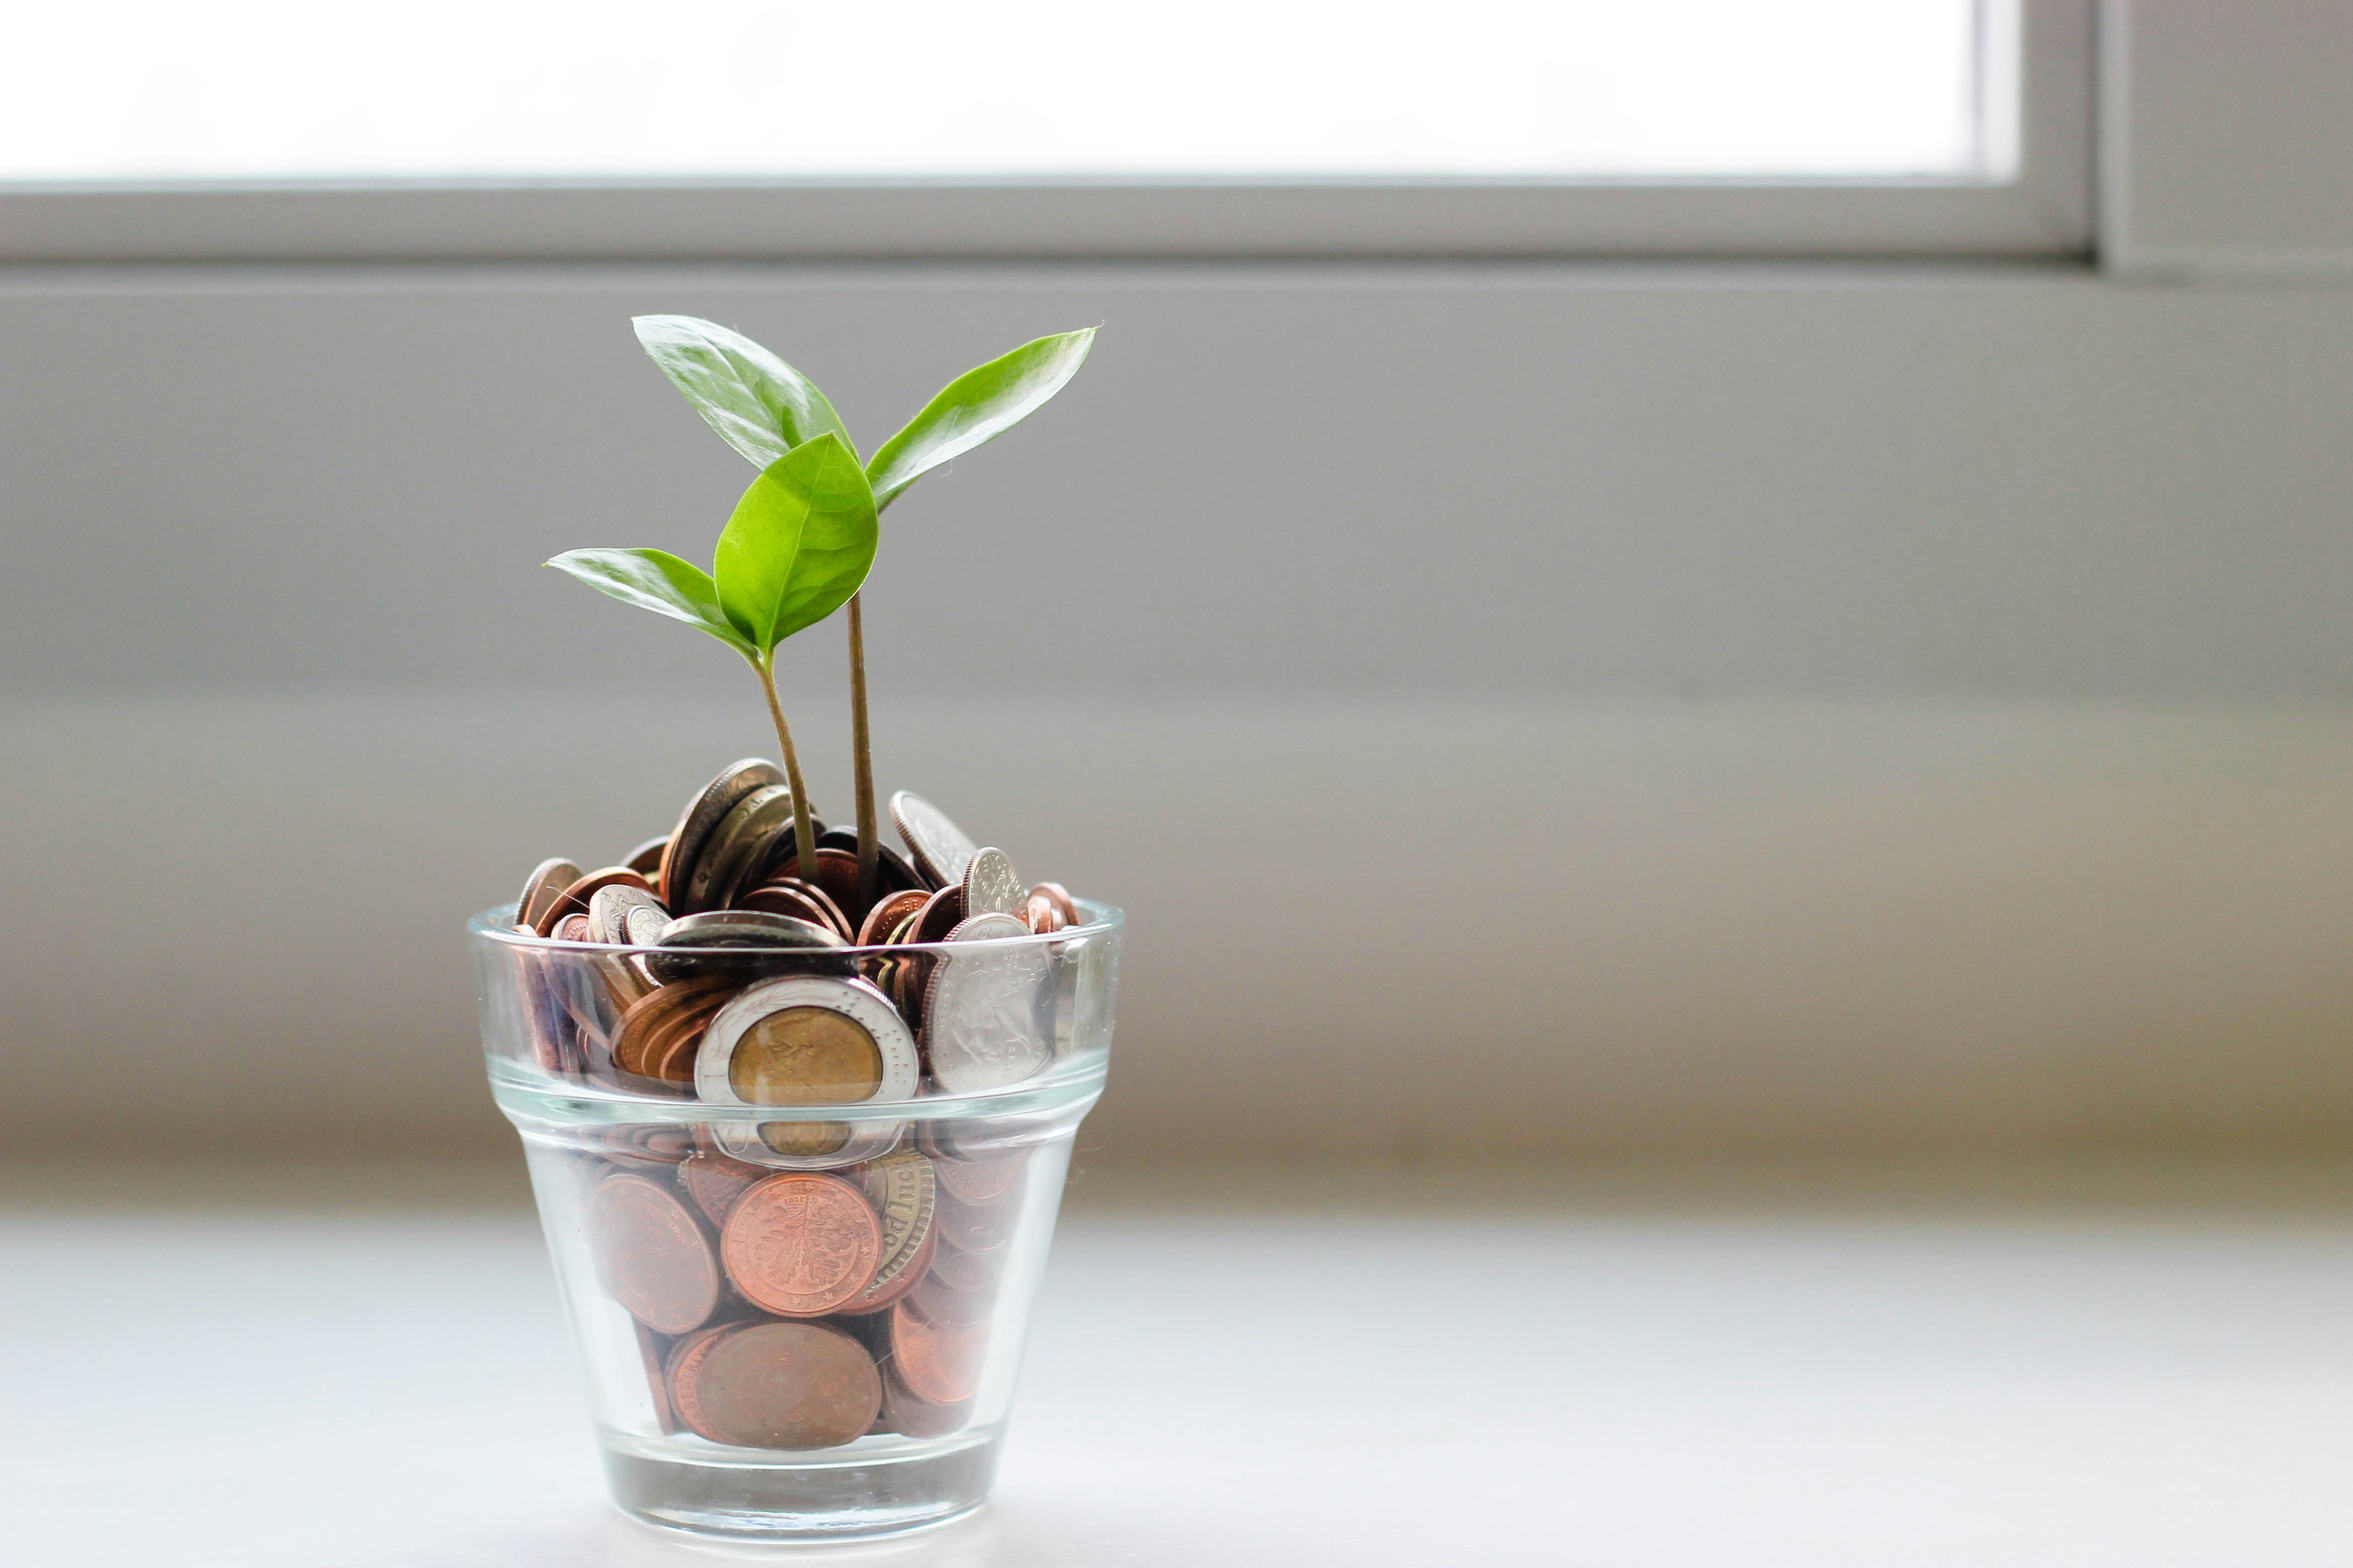
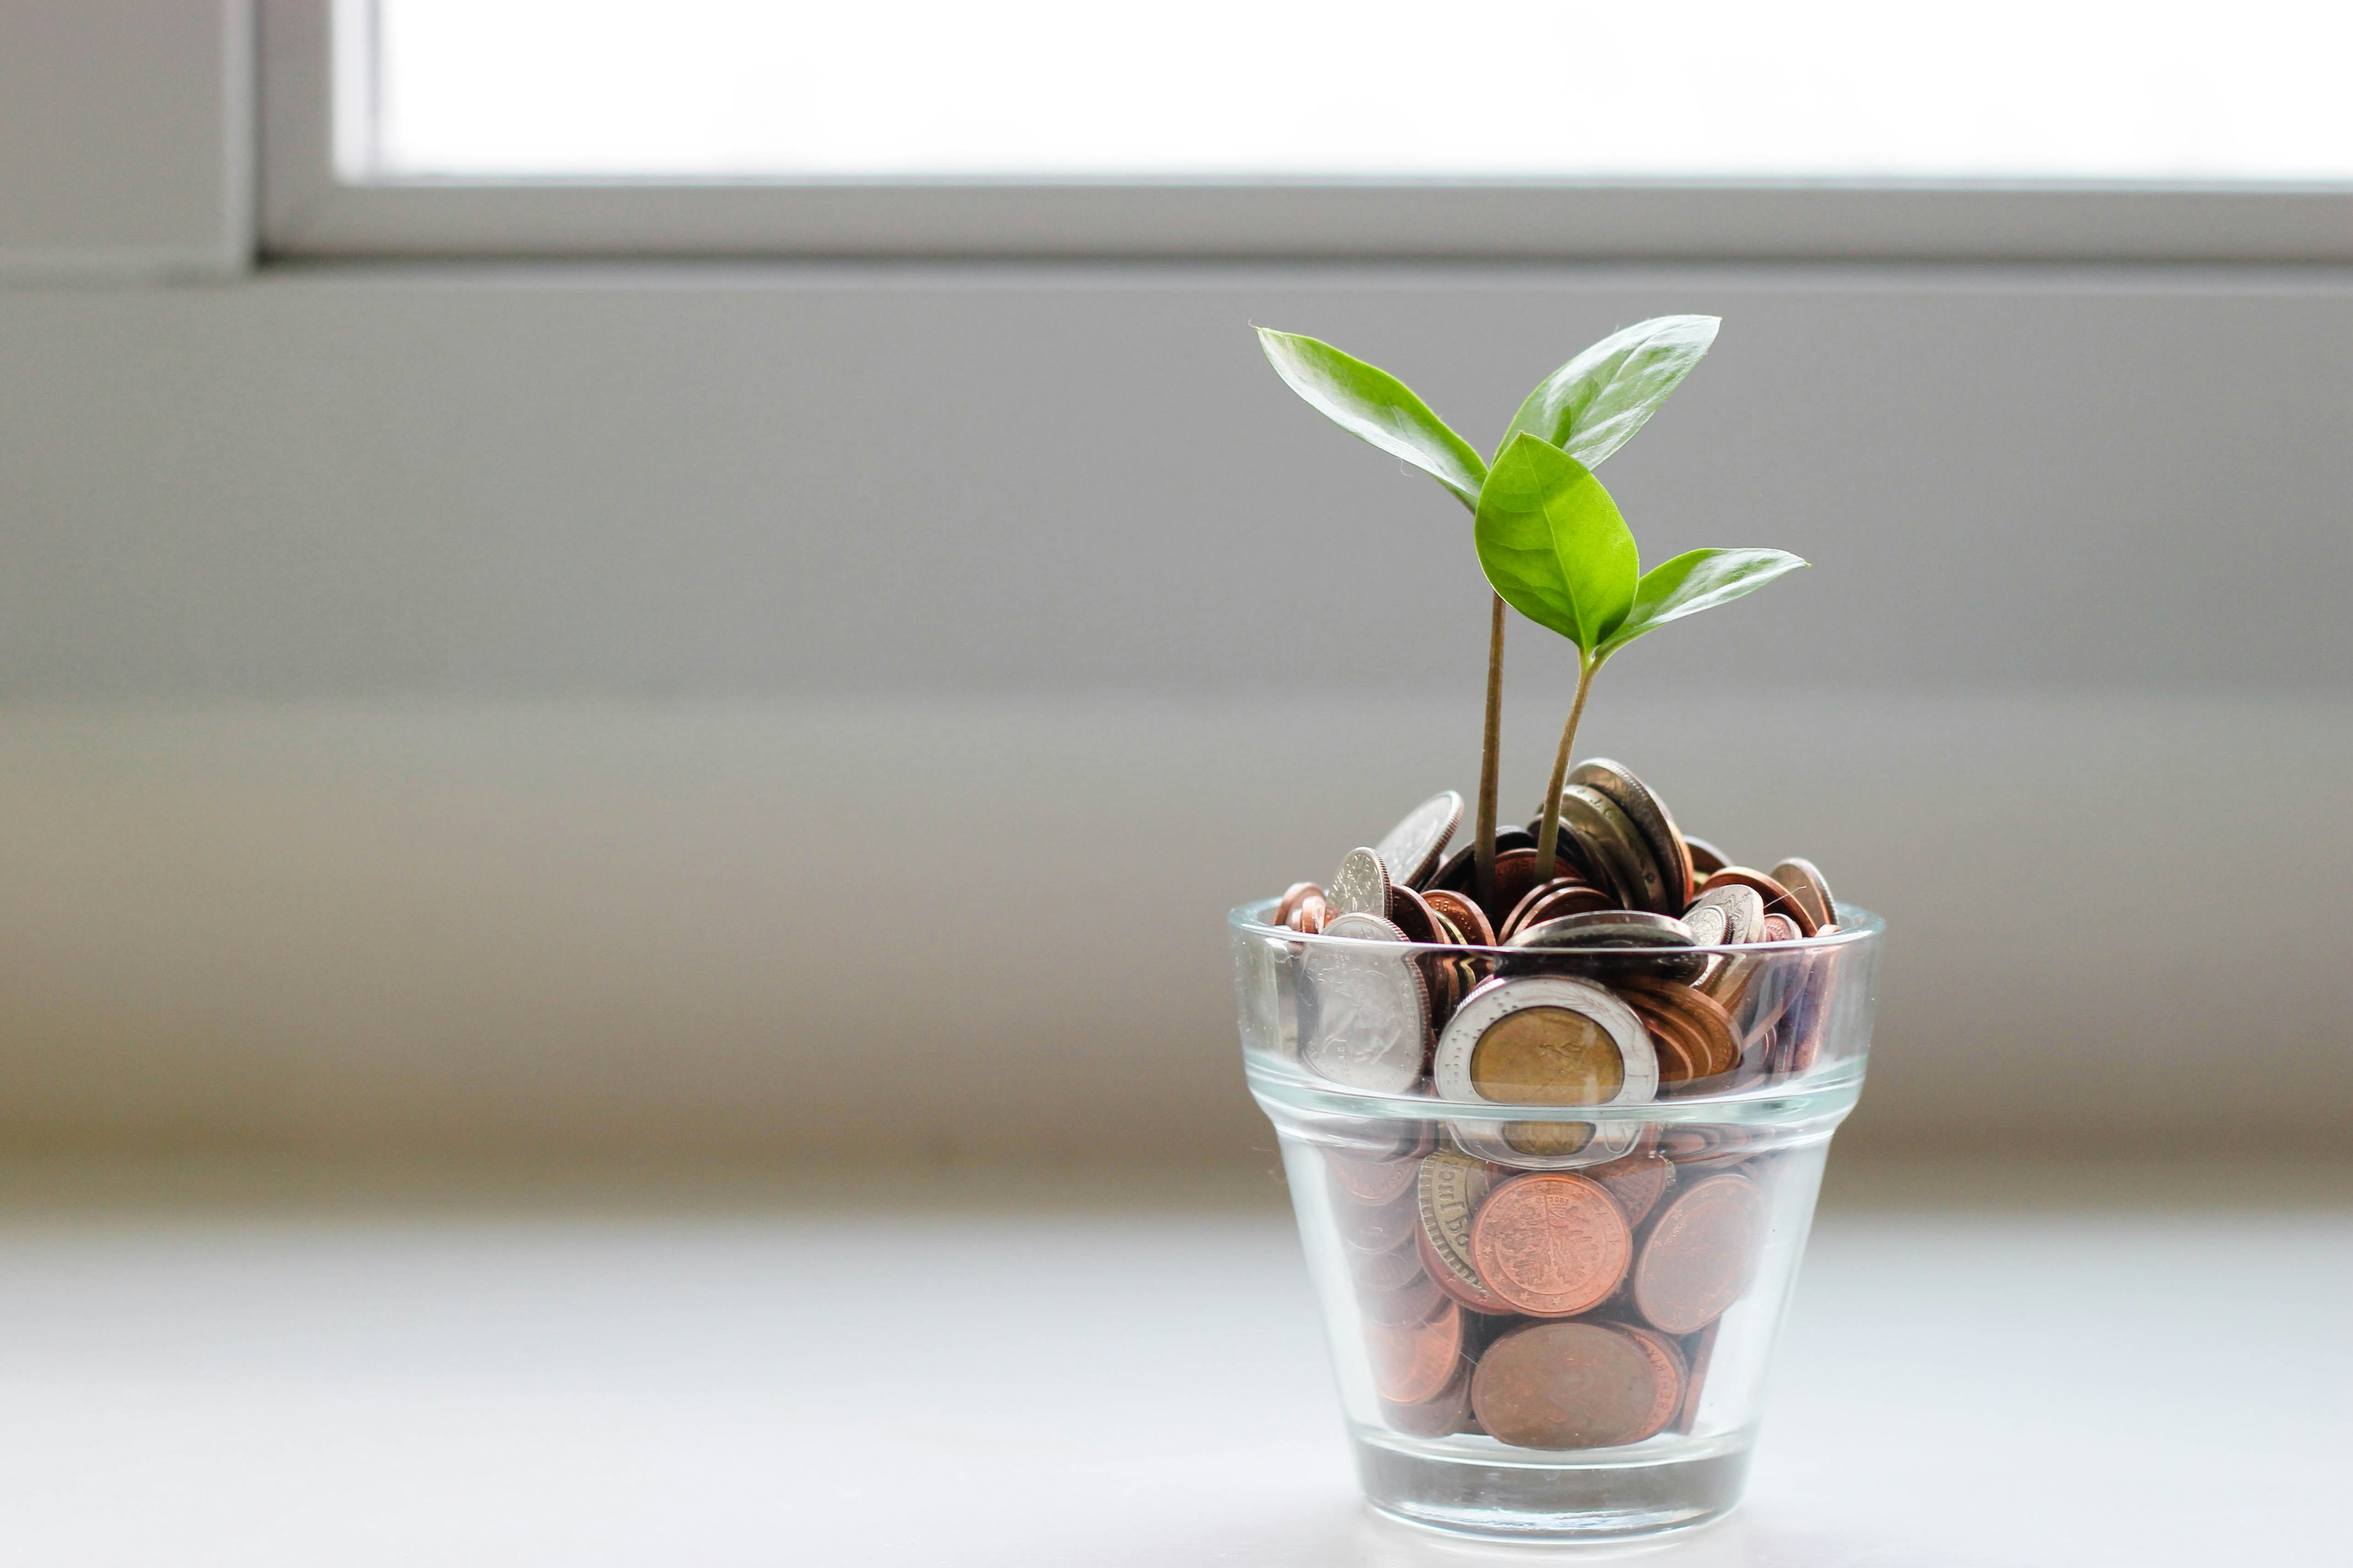
fixes image

diff --git a/components/Hero.tsx b/components/Hero.tsx
@@ -1,20 +1,18 @@
 export default function Hero() {
   return (
     <section
-      className="relative min-h-[80vh] flex items-center justify-end text-white bg-cover bg-center"
+      className="relative min-h-[80vh] flex items-center justify-start text-white bg-cover"
       style={{
         backgroundImage: "url('/hero-image.jpg')",
-        transform: "scaleX(-1)", // mirror background so plant faces text
+        backgroundPosition: "50px center", // ensure even overflow
+        backgroundAttachment: "scroll",
       }}
     >
       {/* gradient overlay (dark on LEFT, light on right) */}
-      <div className="absolute inset-0 bg-gradient-to-l from-[rgba(15,31,54,0.85)] via-[rgba(15,31,54,0.65)] to-[rgba(15,31,54,0.2)]" />
+      <div className="absolute inset-0 bg-gradient-to-r from-[rgba(15,31,54,0.85)] via-[rgba(15,31,54,0.65)] to-[rgba(15,31,54,0.2)]" />
 
       {/* text content */}
-      <div
-        className="relative z-10 max-w-3xl px-6 md:px-12 text-left"
-        style={{ transform: "scaleX(-1)" }} // flip text back to normal
-      >
+      <div className="relative z-10 max-w-3xl px-6 md:px-12 text-left">
         <p className="uppercase tracking-[0.15em] text-accent text-sm mb-3">
           Certified Public Accountant
         </p>
